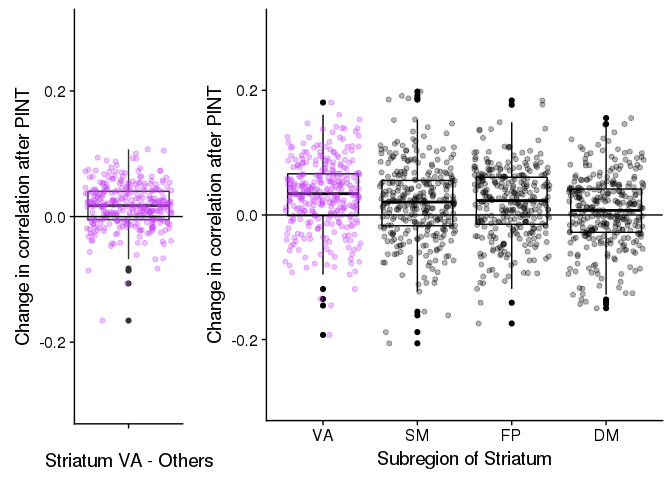
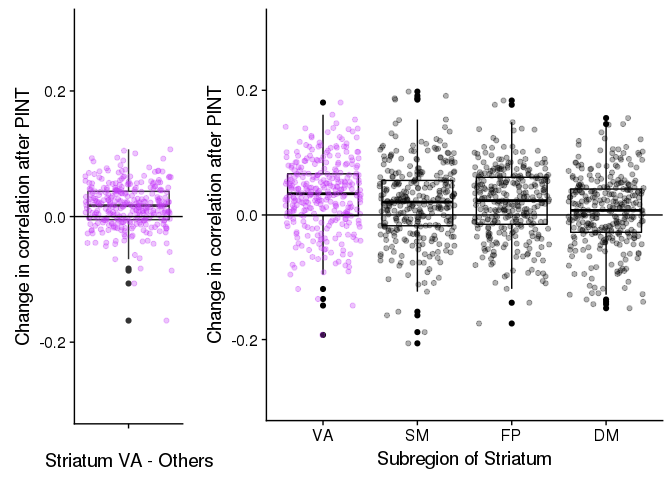
updating 05_subcortical stats figures

diff --git a/notebooks/05_subcortical_cortical_stats_hemi.md b/notebooks/05_subcortical_cortical_stats_hemi.md
@@ -556,7 +556,8 @@ pint_diff_sub_DM <- net_means %>%
 
 DM_submeans_plot <- net_means %>%
   mutate(is_DM = if_else(subcort_NET == 'DM', TRUE, FALSE),
-         SubCortNET = factor(subcort_NET, levels = c("DM", "SM", "DA", "VA", "FP"))) %>% 
+         SubCortNET = factor(subcort_NET, levels = c("DM", "SM", "DA", "VA", "FP"))) %>%
+  filter(subcort_ROI == "cerebellum", !is.na(SubCortNET), YeoNet == "DM") %>%
   ggplot(aes(y = pint_diff, x = SubCortNET, color = is_DM)) +
   geom_boxplot(color = "black") + 
   geom_jitter(alpha = 0.3) +
@@ -577,14 +578,6 @@ plot_grid(pint_diff_sub_DM, DM_submeans_plot, rel_widths = c(1,2.5))
 
 ```
 ## Warning: Removed 1 rows containing missing values (geom_point).
-```
-
-```
-## Warning: Removed 10 rows containing non-finite values (stat_boxplot).
-```
-
-```
-## Warning: Removed 10 rows containing missing values (geom_point).
 ```
 
 ![](05_subcortical_cortical_stats_hemi_files/figure-html/DM-cerebellum-plot-part1-1.png)<!-- -->
@@ -611,7 +604,7 @@ pint_diff_sub_VA <- net_means %>%
 VA_submeans_plot <- net_means %>%
   mutate(is_VA = if_else(subcort_NET == 'VA', TRUE, FALSE),
           SubCort_ROI = factor(subcort_NET, 
-                               levels = c("VA", 'SM', 'FP', "DM", "DA"))) %>%
+                               levels = c("VA", "DA", 'SM', 'FP', "DM"))) %>%
   filter(YeoNet == "VA", 
          subcort_ROI == "cerebellum",
          subcort_NET %in% c('SM', "VA", "DM", 'FP', "DA")) %>%
@@ -1400,6 +1393,36 @@ tvertex_corr   striatum      FP            VAF2L      DXSSD    -2.371659   0.018
 ivertex_corr   thalamus      VI            FPP2L      DXSSD    -2.369337   0.0181288   0.0993686
 ivertex_corr   thalamus      VI            VI05L      DXSSD     2.367979   0.0181949   0.0995682
 
+```r
+DX_lm_model %>% 
+  filter(term %in% c("DXSSD"), vertex_type == "ivertex_corr") %>%
+  filter(p_FDR < 0.05) %>%
+  summarise(n())
+```
+
+```
+## # A tibble: 1 x 2
+##    term `n()`
+##   <chr> <int>
+## 1 DXSSD   220
+```
+
+
+```r
+DX_lm_model %>% 
+  filter(term %in% c("DXSSD"), vertex_type == "tvertex_corr") %>%
+  filter(p_FDR < 0.05) %>%
+  summarise(n())
+```
+
+```
+## # A tibble: 1 x 2
+##    term `n()`
+##   <chr> <int>
+## 1 DXSSD   180
+```
+
+
 
 ```r
 DX_lm_model %>%
@@ -1437,7 +1460,8 @@ DX_lm_model %>%
 ## Adding missing grouping variables: `term`
 ```
 
-![](05_subcortical_cortical_stats_hemi_files/figure-html/unnamed-chunk-5-1.png)<!-- -->
+![](05_subcortical_cortical_stats_hemi_files/figure-html/unnamed-chunk-7-1.png)<!-- -->
+
 
 
 ```r
@@ -1457,7 +1481,7 @@ DX_lm_model %>%
 ## Adding missing grouping variables: `term`
 ```
 
-![](05_subcortical_cortical_stats_hemi_files/figure-html/unnamed-chunk-6-1.png)<!-- -->
+![](05_subcortical_cortical_stats_hemi_files/figure-html/unnamed-chunk-9-1.png)<!-- -->
 
 
 ```r
